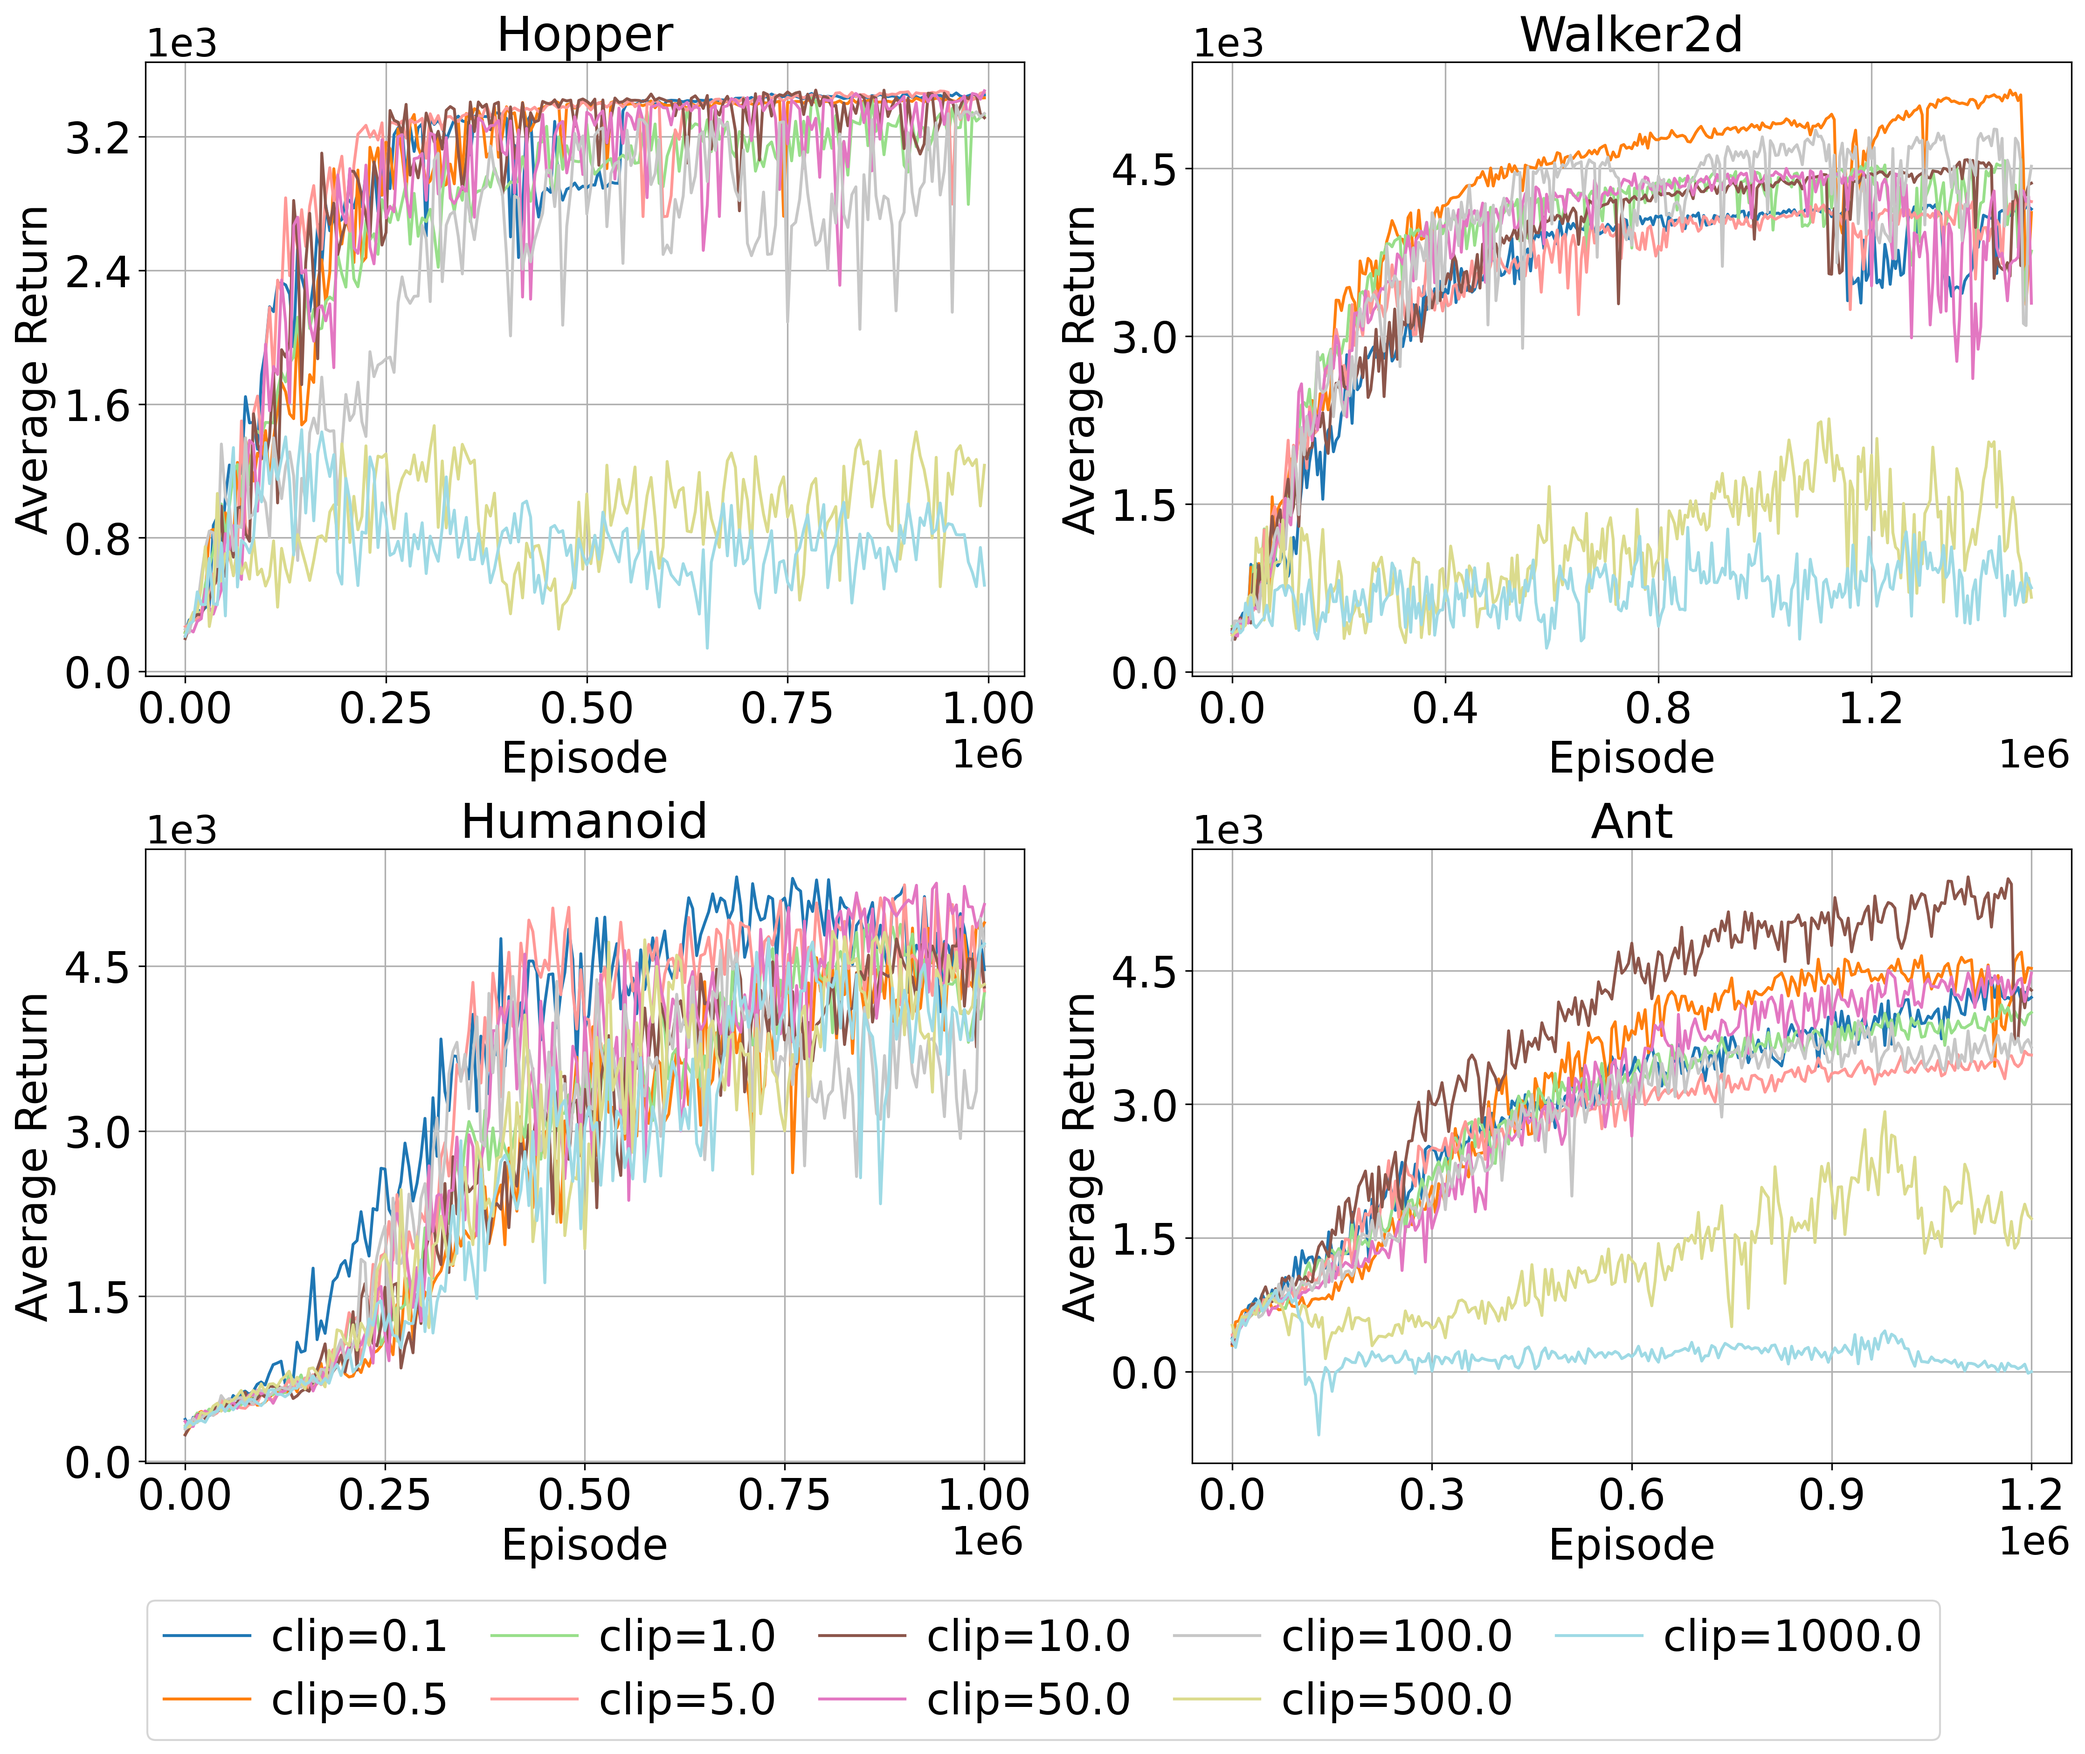
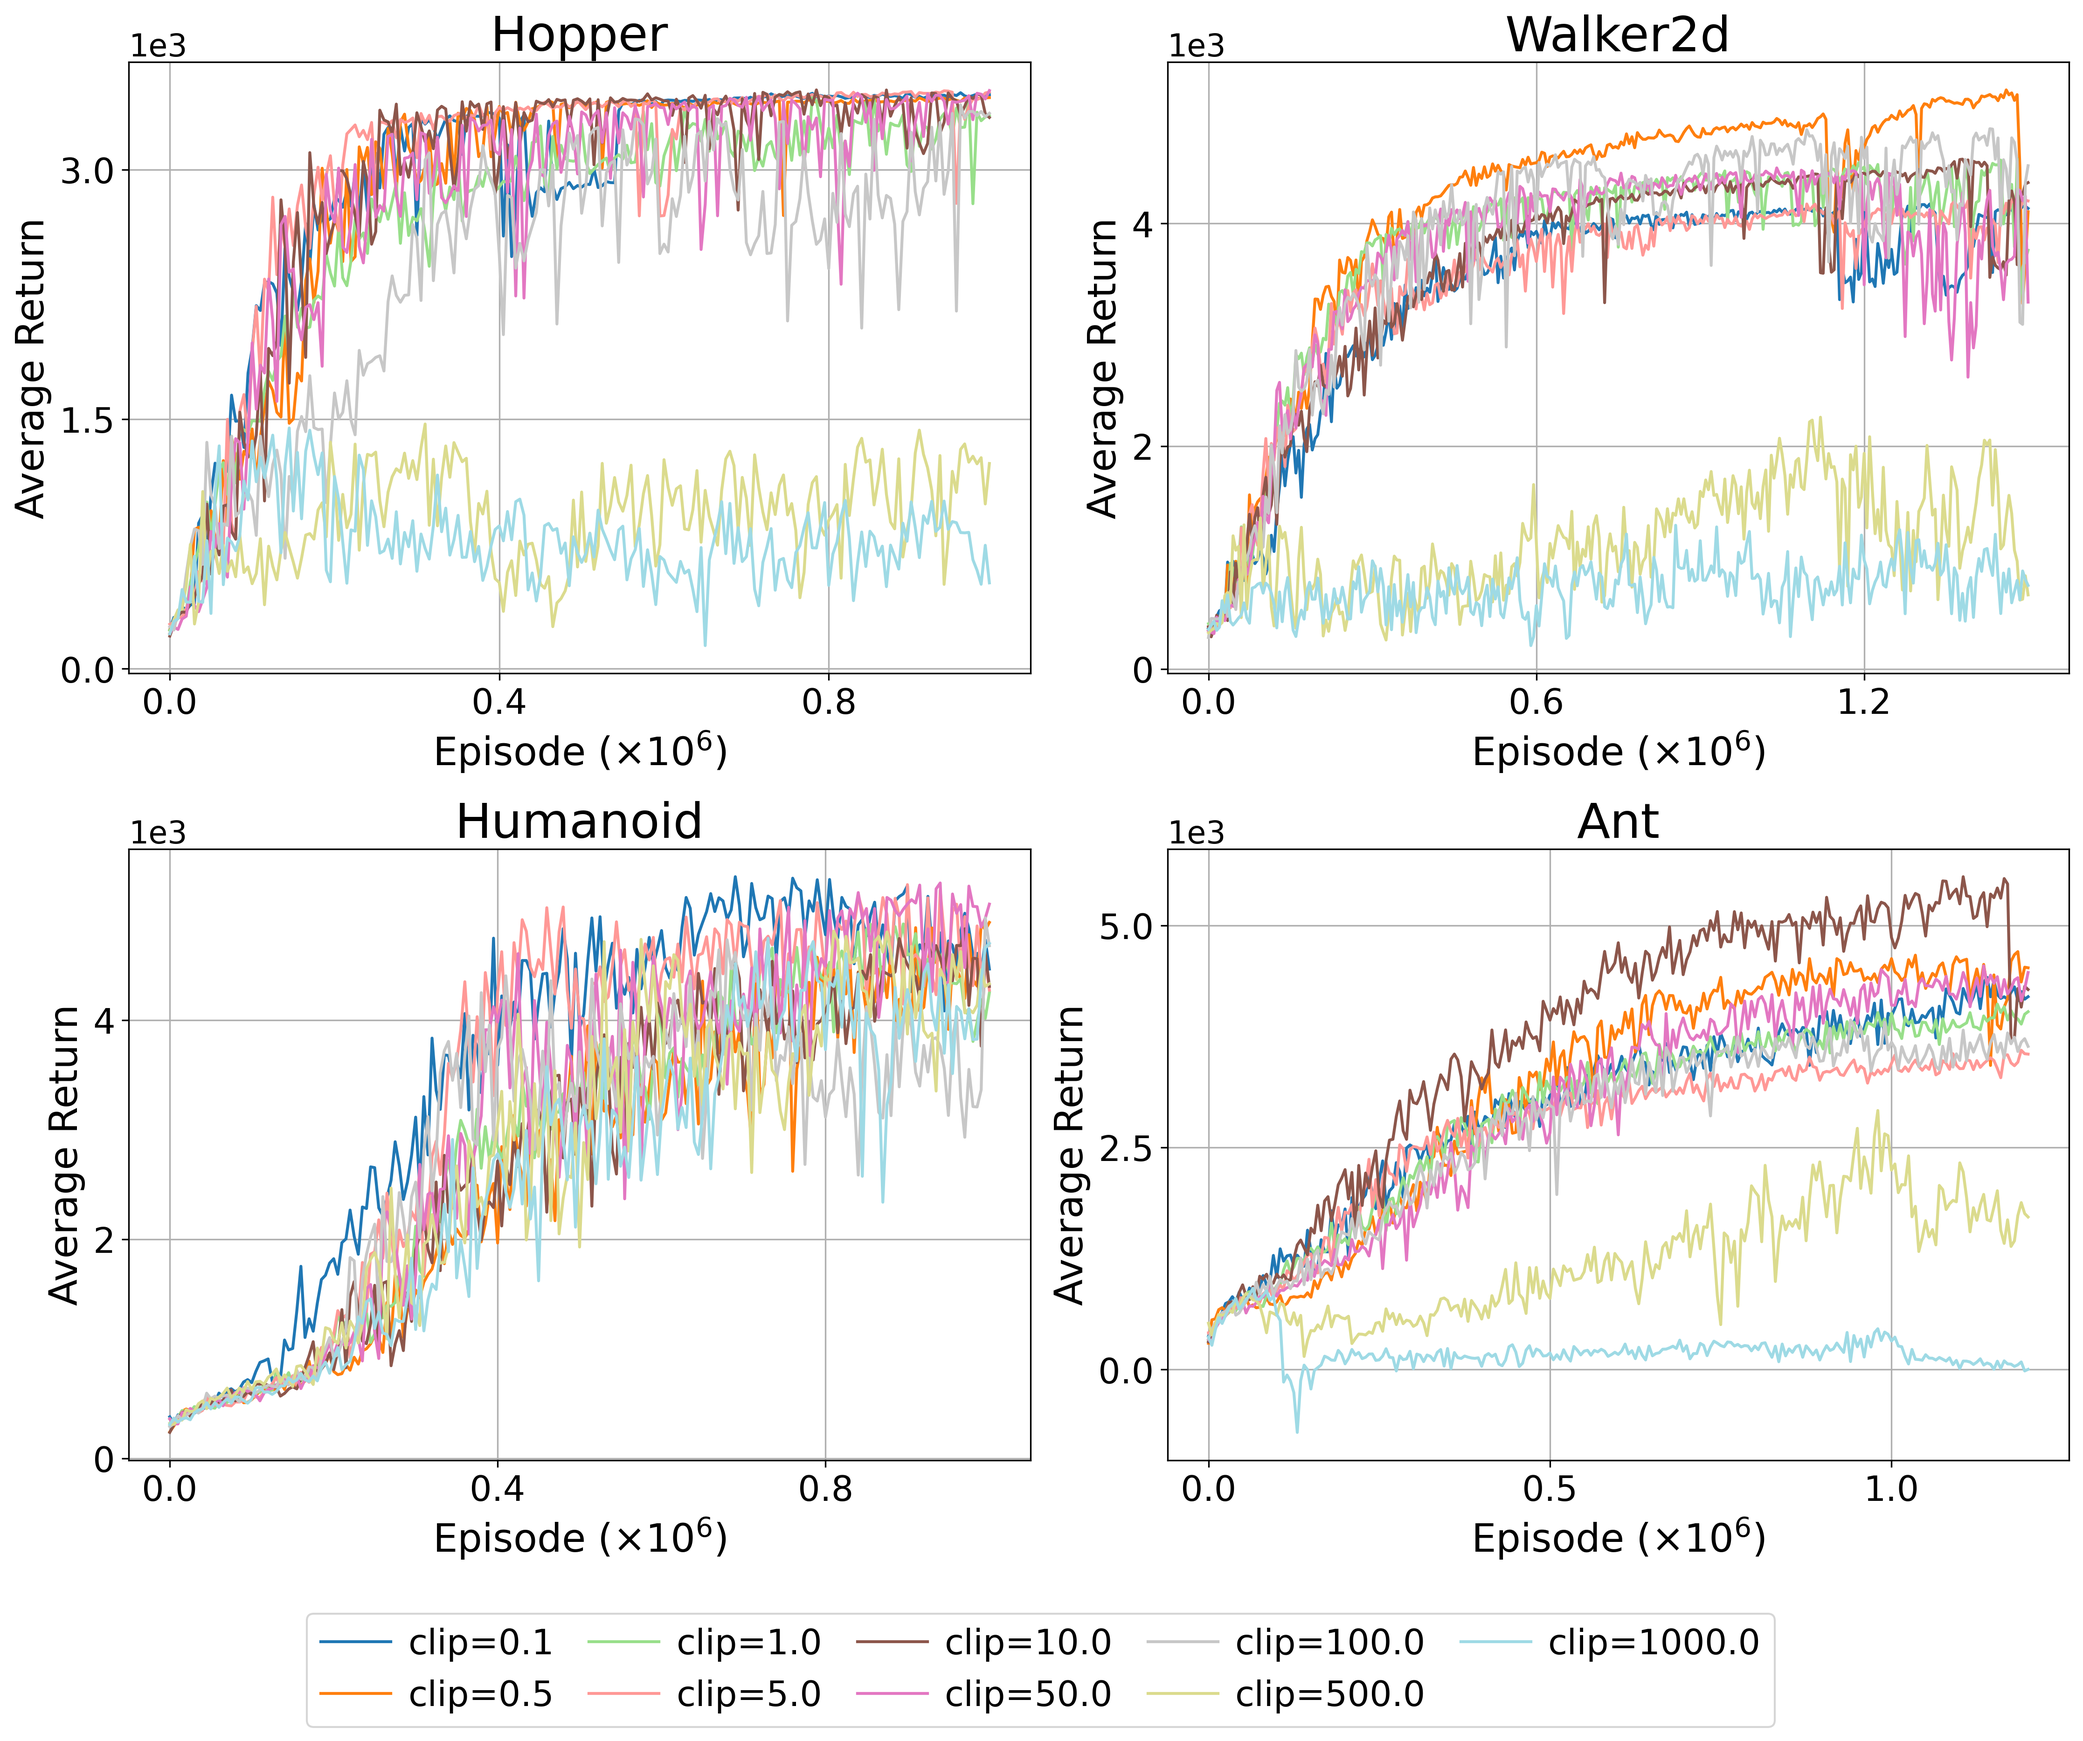
less ticks in the plot

diff --git a/plotting_code/plot_returns.py b/plotting_code/plot_returns.py
@@ -203,10 +203,10 @@ def create_method_comparison_figure(
     
     # Set font sizes
     TITLE_SIZE = 25
-    AXIS_LABEL_SIZE = 22
-    TICK_SIZE = 22
-    LEGEND_SIZE = 22
-    AXIS_UNIT_SIZE = 20
+    AXIS_LABEL_SIZE = 20
+    TICK_SIZE = 18
+    LEGEND_SIZE = 18 
+    AXIS_UNIT_SIZE = 16
 
     # Dictionary to store all unique clip values found in the data
     all_clip_values = set()
@@ -256,6 +256,9 @@ def create_method_comparison_figure(
             data_subset = combined_df[combined_df['clip'] == clip]
             if len(data_subset) > 0:
                 grouped = data_subset.groupby('episode')['Real Det Return'].agg(['mean', 'std']).reset_index()
+                # Convert episode values to millions
+                grouped['episode'] = grouped['episode'] / 1e6
+                
                 line = ax.plot(grouped['episode'], grouped['mean'], 
                              color=clip_to_color[clip], 
                              label=f'clip={clip}')
@@ -276,23 +279,22 @@ def create_method_comparison_figure(
         
         # Customize subplot with larger fonts
         ax.set_title(env.replace('-v5', ''), fontsize=TITLE_SIZE)
-        ax.set_xlabel('Episode', fontsize=AXIS_LABEL_SIZE)
+        ax.set_xlabel('Episode (×$10^6$)', fontsize=AXIS_LABEL_SIZE)
         ax.set_ylabel('Average Return', fontsize=AXIS_LABEL_SIZE)
         ax.grid(True)
         
-        # Reduce tick frequency and increase font size
+        # Reduce number of ticks and increase font size
         ax.tick_params(axis='both', which='major', labelsize=TICK_SIZE)
-        ax.xaxis.set_major_locator(plt.MaxNLocator(5))
-        ax.yaxis.set_major_locator(plt.MaxNLocator(5))
+        ax.xaxis.set_major_locator(plt.MaxNLocator(3))
+        ax.yaxis.set_major_locator(plt.MaxNLocator(3))
 
-        # Increase size of scientific notation on both axes
-        ax.ticklabel_format(style='sci', axis='x', scilimits=(0,0))
+        # Turn off scientific notation for x-axis since we're now using millions
+        ax.ticklabel_format(style='plain', axis='x')
+        # Keep scientific notation for y-axis
         ax.ticklabel_format(style='sci', axis='y', scilimits=(0,0))
         
-        # Get the offset text objects for both axes and set their fontsize
-        x_offset = ax.xaxis.get_offset_text()
+        # Get the offset text objects for y-axis and set fontsize
         y_offset = ax.yaxis.get_offset_text()
-        x_offset.set_fontsize(AXIS_UNIT_SIZE)
         y_offset.set_fontsize(AXIS_UNIT_SIZE)
     
     # Adjust layout first
@@ -323,7 +325,6 @@ def create_method_comparison_figure(
                 dpi=300,
                 bbox_extra_artists=(legend,))
     plt.close()
-
 
 # The create_all_method_comparisons function remains the same
 def create_all_method_comparisons(
